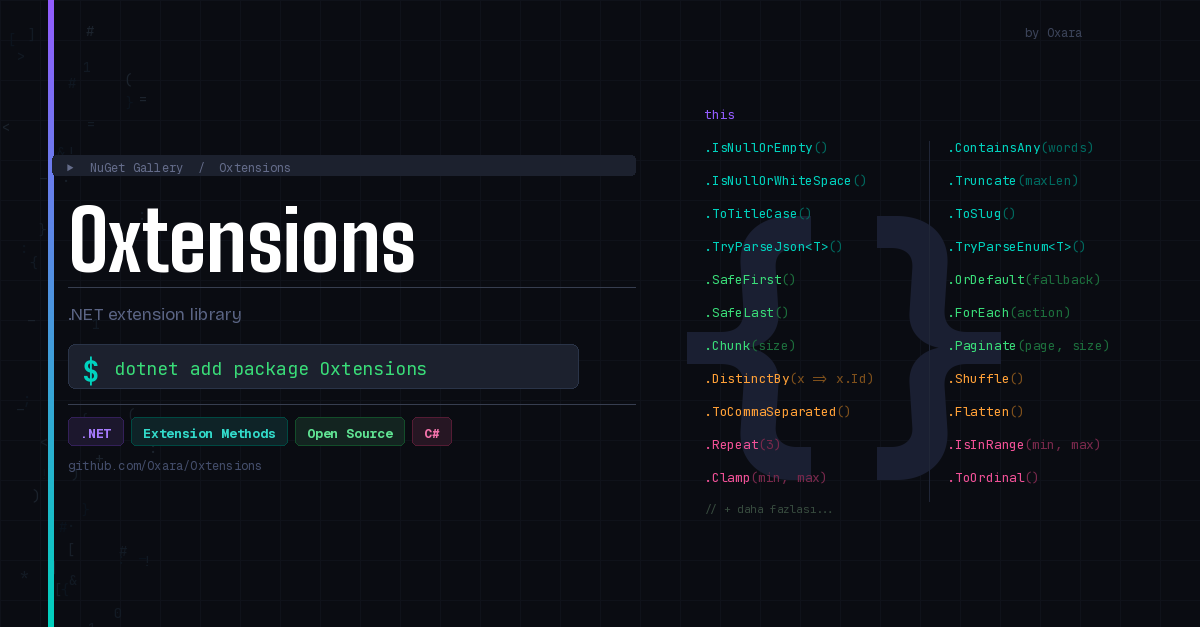
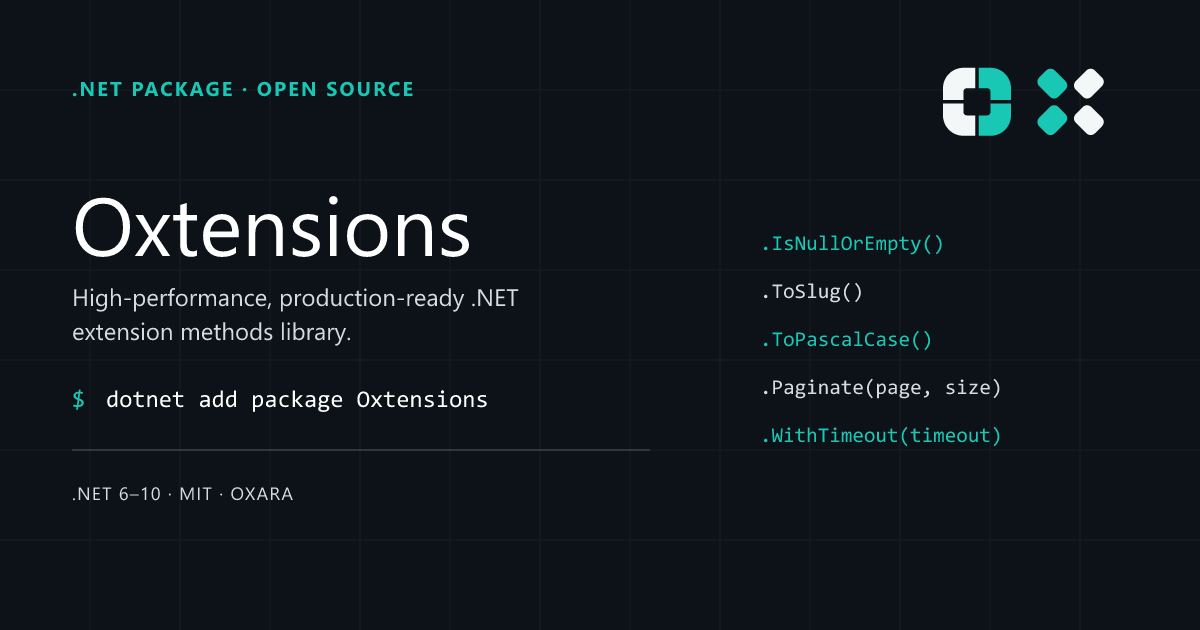
Prepare Oxtensions 1.1.1

diff --git a/RELEASE.md b/RELEASE.md
@@ -1,0 +1,27 @@
+# Release process
+
+## Invariants
+
+- `src/Oxtensions/Oxtensions.csproj`, `CHANGELOG.md` ve `vMAJOR.MINOR.PATCH` etiketi aynı sürümü taşır.
+- Yayın etiketi yalnız testleri geçmiş `main` commit'i üzerinde oluşturulur ve sonradan taşınmaz.
+- Tag push, NuGet ve GitHub Release yayınını tetikler; yerel makineden paket yayımlanmaz.
+- `NUGET_API_KEY` yalnız GitHub Actions secret olarak kullanılır ve loglara yazılmaz.
+- Başarısız veya hatalı yayın yeni patch sürümüyle düzeltilir.
+
+## Prepare
+
+```powershell
+dotnet restore
+dotnet list Oxtensions.sln package --vulnerable --include-transitive
+dotnet build --configuration Release --no-restore
+dotnet test --configuration Release --no-build
+dotnet pack src/Oxtensions/Oxtensions.csproj --configuration Release --no-build --output artifacts/release-candidate
+```
+
+1. Tüm hedef framework testlerini ve paket içeriğini doğrula.
+2. `CHANGELOG.md` içindeki `Unreleased` maddelerini tarihli sürüme taşı.
+3. Package version ile planlanan tag değerinin aynı olduğunu doğrula.
+4. NuGet ikonunun, README'nin ve sembol paketinin release candidate içinde bulunduğunu kontrol et.
+5. Commit, tag ve push için ayrıca sahip onayı al.
+
+CI, tag ile proje sürümü farklıysa NuGet publish adımından önce yayını reddeder.

diff --git a/CHANGELOG.md b/CHANGELOG.md
@@ -10,6 +10,17 @@ The format follows [Keep a Changelog](https://keepachangelog.com/en/1.1.0/) and 
 
 ---
 
+## [1.1.1] — 2026-09-24
+
+### Changed
+
+- Paket ikonu ve README banner'ı canonical Oxara Brand exportlarıyla yenilendi.
+- README araç ekosistemi bölümüne Local Change Guard kaynak deposu ve VS Code Marketplace bağlantıları eklendi.
+- SourceLink build bağımlılığı, transitive güvenlik uyarısını kaldıran güncel sürüme yükseltildi.
+- NuGet publish işi .NET 10 SDK'ya sabitlendi ve tag/package sürüm uyuşmazlığını yayından önce reddeden kontrol eklendi.
+
+---
+
 ## [1.1.0] — 2026-02-24
 
 ### Added
@@ -180,6 +191,7 @@ Initial release of Oxtensions — a high-performance, production-ready .NET exte
 
 ---
 
-[Unreleased]: https://github.com/oxara/oxtensions/compare/v1.1.0...HEAD
+[Unreleased]: https://github.com/oxara/oxtensions/compare/v1.1.1...HEAD
+[1.1.1]: https://github.com/oxara/oxtensions/compare/v1.1.0...v1.1.1
 [1.1.0]: https://github.com/oxara/oxtensions/compare/v1.0.0...v1.1.0
 [1.0.0]: https://github.com/oxara/oxtensions/releases/tag/v1.0.0

diff --git a/README.md b/README.md
@@ -249,6 +249,12 @@ dotnet test --filter "ClassName=StringExtensionsTests"
 
 ---
 
+## 🧰 Other Oxara Tools
+
+- **[Local Change Guard](https://github.com/Oxara/Oxara.VsCode.LocalChangeGuard)** — Keep developer-local Git hunks separate from committable changes without hiding either from the worktree. [Install from the VS Code Marketplace](https://marketplace.visualstudio.com/items?itemName=oxara.local-change-guard).
+
+---
+
 ## 📄 License
 
 MIT © 2026 [Oxara](https://github.com/oxara)
